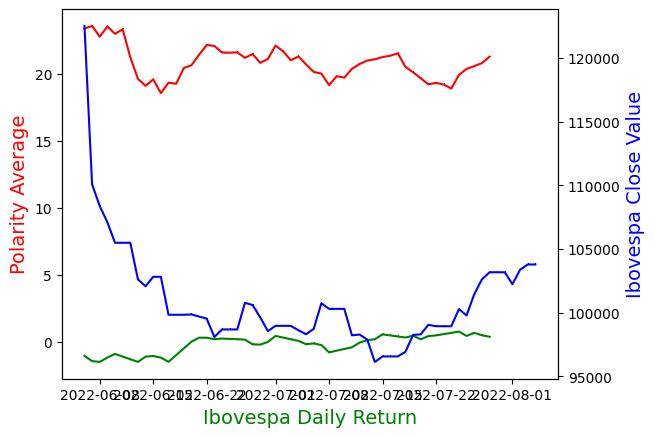
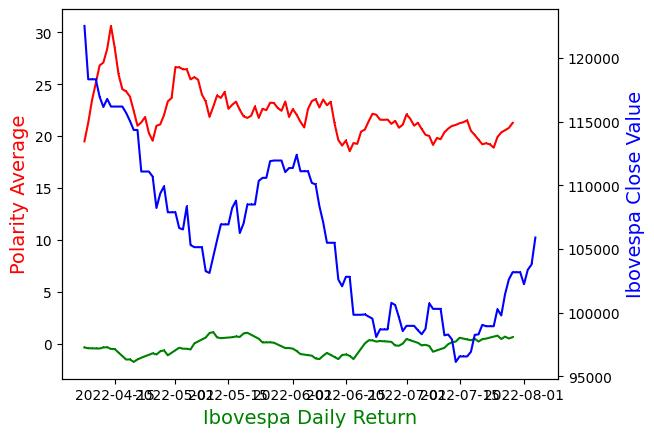
20220808

diff --git a/DB Analysis - SA - V2.py b/DB Analysis - SA - V2.py
@@ -13,7 +13,7 @@ print(conn)
 cursor = conn.cursor()
 
 # Query and create the desirable Dataframe with the Days and Average Polarity from each one from Twitter
-df = pd.read_sql_query('SELECT bet_days, avg(first) FROM ( SELECT user_id, bet_days, avg(polarity) as first FROM Tweet GROUP BY user_id, bet_days) as inner_query GROUP BY bet_days ORDER BY bet_days DESC LIMIT 60',conn)
+df = pd.read_sql_query('SELECT bet_days, avg(first) FROM ( SELECT user_id, bet_days, avg(polarity) as first FROM Tweet GROUP BY user_id, bet_days) as inner_query GROUP BY bet_days ORDER BY bet_days DESC LIMIT 120',conn)
 
 # Get the correct date through the same operation done in the Python - Sentiment Analysis - V3
 df['StartTime'] = date(2000,1,1)                                                                        
@@ -70,6 +70,6 @@ df.to_csv("Dataframe.csv")                                                      
 
 print(df2)
 print(df)
-data = df[['avg','Rent']]
+data = df[['avg','Close']]
 correlation = data.corr(method='pearson')
 print(correlation)

diff --git a/README.md b/README.md
@@ -1,16 +1,35 @@
 # SentimentAnalysisBrazilianStock
-Data Engineer Project with sentiment analysis of brazilian stock exchange using twitter as data source
+Data Engineer Project with sentiment analysis of Brazilian Stock Exchange (BSE) using twitter and yahoo as data source
+Check what the users are talking about the Brazilian Stock Exchange in Twitter without having to access it, search user by user and quantify the sentiment
 
 What is the main question?
-  - Check what the users are talking about the Brazilian Stock Exchange in Twitter without having to access it and search user by user and gain time
+  - Does the BSE moves with the twitter average sentiment?
 
 ![image](https://user-images.githubusercontent.com/22395461/179866156-f86c849b-8889-4255-9fe0-24a98cd37704.png)
 
-
-
-Data Architecture
-To answer this question we will be using the tools below:
+Tools:
+To answer this question and identify the movements we will be using the tools below:
 - Docker: Postgres & Cassandra
 - Tweepy - Twitter API for Python
 - Google Translate API
-- 
+
+Rules:
+- Use only Brazilian Financial Influencers;
+- All influencers have the same weight;
+- If an influencer publishes 2 or more times per day, it will be calculated an average from all the day tweets, then it will be calculated with the other author's averages.
+
+Data Architecture:
+
+For this project it was created a relative simple structured table, as shown below:
+![image](https://user-images.githubusercontent.com/22395461/183540916-11bf1952-27c3-4450-9017-206b772f78a2.png)
+
+How does it work?
+1st - To begin, it is necessary do run the docker-compose.yml to start the Postgres and Cassandra Databases;
+2nd - Open the file "Python - Sentiment Analysis - V3.py" and fill the Twitter API's environment variables;
+3rd - Run the code and wait until the code run is completed;
+4th - Open the file "DB Analysis - SA - V2.py"
+5th - Run it with the docker on, the following picture will be shown:
+![Result_Polarity_Return](https://user-images.githubusercontent.com/22395461/183541914-313cccfd-9f00-428d-8acb-5f325eb5d793.jpg)
+
+The correlation getting the last 120 days from 08/08/2022 was 0.23269 between the twitter average sentiment and the BSE close value, which means, there is a slight correlation.
+For further studies, it would be healthy to get a higher sample and also give weights for every Twitter Author by the number of followers.
